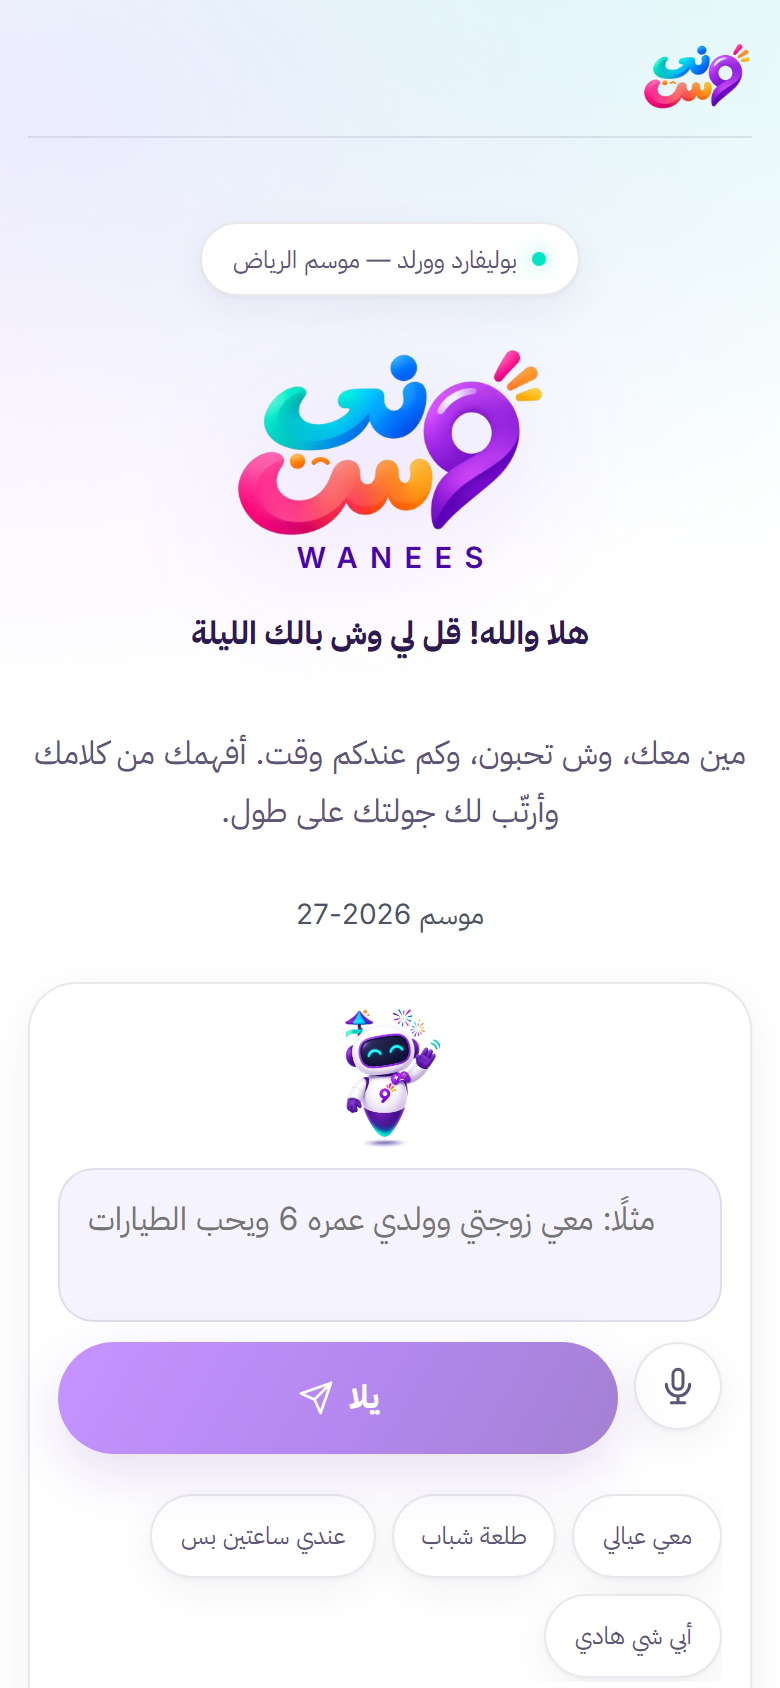
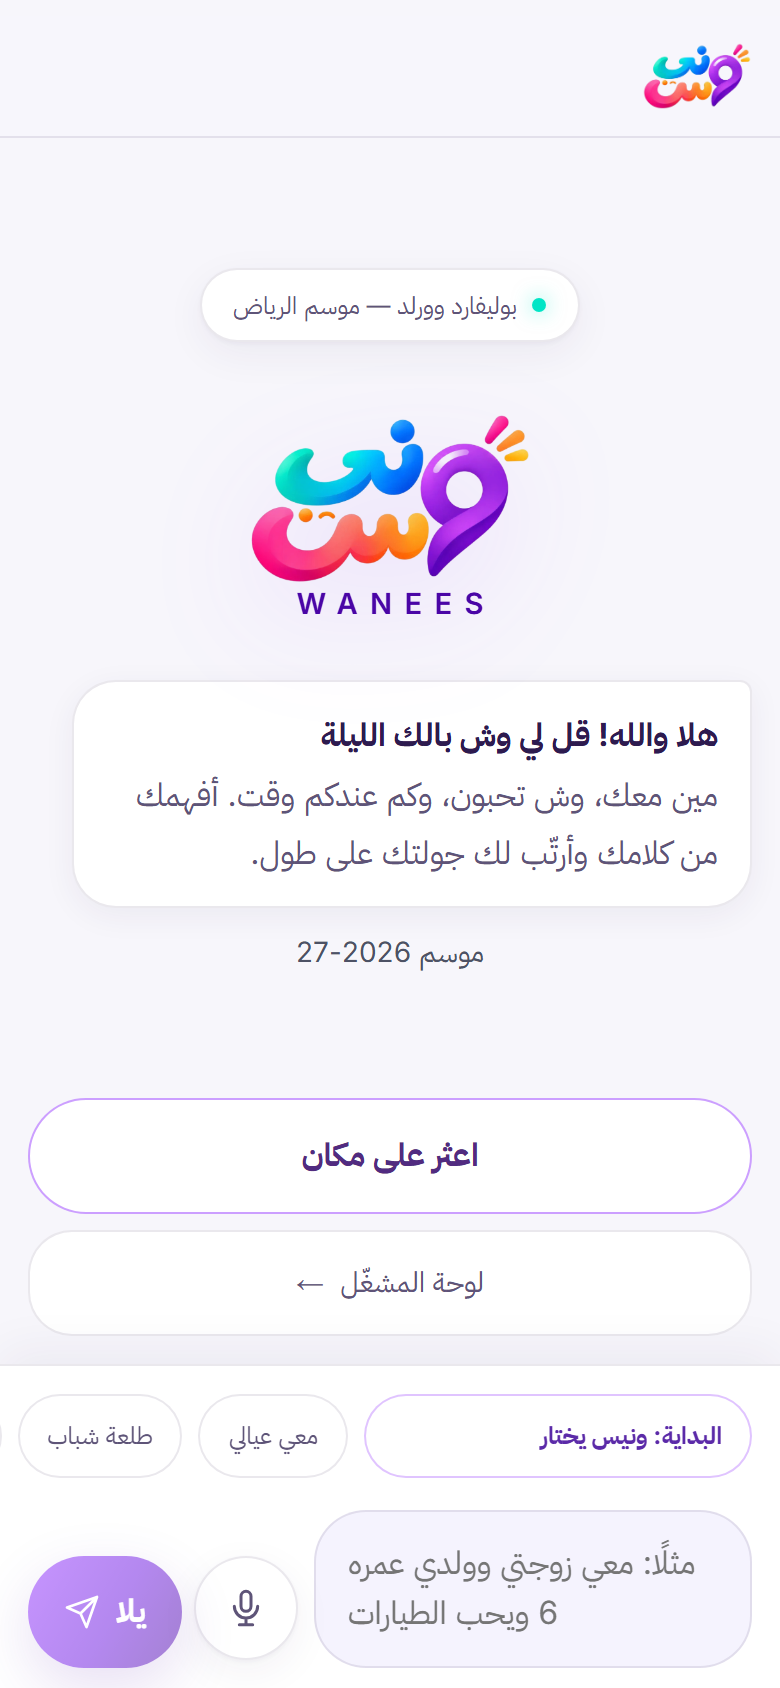
Visitor app shell: a chat first screen, a sticky app bar, native touch feel
- Phones held upright open on a chat: Wanees greets in a bubble and the
  message box is docked at the bottom, with the start point and the
  examples in one sideways-scrolling row above it. A phone on its side
  keeps the side-by-side welcome, message box first.
- Phones and tablets: the top bar stays on top (sticky, blurred) over a
  soft app background; controls get a press-down and no tap flash;
  switching tabs cross-fades with View Transitions while the top bar and
  tab bar stay still (off with reduced motion).
- Prices are a shade darker (#8c5714) to keep 4.5:1 on that background.
- The responsive test counts a control in a sideways-scrolling strip as
  reachable; the phone test checks the docked message box.
- README screenshots retaken, plus the stop ⋯ menu.

diff --git a/app/app/globals.css b/app/app/globals.css
@@ -42,7 +42,7 @@
   --orange: #ff8c00;
 
   /* -- أدوار محدودة -- */
-  --gold: #9c6118;                      /* الأسعار فقط */
+  --gold: #8c5714;                      /* الأسعار فقط */
   --ok: #137a4f;
   --warn: #c2410c;
 
@@ -696,10 +696,6 @@ button.ghost-link { background: none; border: none; padding: 0; font: inherit; c
 .visitor-plan .composer input { line-height: 1.4; }
 .hero-meta { display: inline-flex; align-items: center; justify-content: center; gap: 10px; color: var(--ink-3); font-size: 12px; margin: -8px 0 20px; }
 .hero-meta i { width: 3px; height: 3px; border-radius: 50%; background: var(--purple); opacity: 0.6; }
-.opening-start { width: min(100%, 520px); margin: 14px auto 0; text-align: start; }
-.opening-start label { display: flex; align-items: center; gap: 6px; color: var(--ink-3); font-size: 13px; margin-bottom: 7px; }
-.opening-start label span { opacity: 0.75; }
-.opening-start select { width: 100%; min-height: 46px; color: var(--ink); background: var(--surface); border: 1px solid var(--line); border-radius: 12px; padding: 10px 12px; font: inherit; }
 .qnext:disabled, .cta:disabled { opacity: 0.5; cursor: not-allowed; transform: none; }
 .quiz-error { max-width: 508px; margin: 14px auto 0; padding: 11px 14px; border: 1px solid rgba(194, 65, 12, 0.24); border-radius: 14px; color: #9a4a0b; background: rgba(194, 65, 12, 0.06); text-align: center; line-height: 1.6; }
 .route-zone-list { display: flex; flex-wrap: wrap; gap: 8px; margin-top: 14px; }
@@ -718,7 +714,7 @@ button.ghost-link { background: none; border: none; padding: 0; font: inherit; c
   --violet: #8e2bff;
   --grad: linear-gradient(120deg, #8e2bff 0%, #6a12e0 55%, #4a05a6 100%);
   --grad-soft: linear-gradient(120deg, rgba(142, 43, 255, 0.08), rgba(0, 229, 198, 0.08));
-  --gold: #9c6118;
+  --gold: #8c5714;
   background: #ffffff;
   color: var(--ink);
 }
@@ -1681,4 +1677,109 @@ html:has(dialog[open].bottom-sheet) { overflow: hidden; }
   .welcome-flow .logo-word img { height: 88px; width: auto; }
   .welcome-flow .tagline { margin-bottom: 6px; line-height: 1.75; }
   .welcome-flow:has(.opening-composer) .welcome-mascot { display: none; }
+}
+
+/* ============================================================
+   App shell: the visitor web app looks and behaves like an installed phone app.
+   ============================================================ */
+:root { --app-bg: #f7f6fb; }
+
+/* Native touch feel: no grey tap flash, no text selection on controls, a small press-down. */
+.visitor-flow, .visitor-plan { -webkit-tap-highlight-color: transparent; }
+.visitor-flow button, .visitor-plan button, .bottom-nav, .visitor-plan .topbar { -webkit-user-select: none; user-select: none; -webkit-touch-callout: none; }
+@media (hover: none) and (prefers-reduced-motion: no-preference) {
+  .visitor-flow button:not(:disabled):active, .visitor-plan button:not(:disabled):active { transform: scale(0.97); transition: transform 80ms ease-out; }
+}
+
+/* Screen-to-screen cross-fade (View Transitions, Chrome and Safari 18); the top bar and tab bar stay put. */
+.visitor-plan .topbar { view-transition-name: wanees-app-bar; }
+.bottom-nav { view-transition-name: wanees-tab-bar; }
+::view-transition-old(root), ::view-transition-new(root) { animation-duration: 180ms; animation-timing-function: cubic-bezier(0.2, 0.8, 0.2, 1); }
+::view-transition-old(root) { animation-name: wanees-screen-out; }
+::view-transition-new(root) { animation-name: wanees-screen-in; }
+::view-transition-group(wanees-app-bar), ::view-transition-group(wanees-tab-bar) { animation: none; }
+@keyframes wanees-screen-in { from { opacity: 0; transform: translateY(8px); } }
+@keyframes wanees-screen-out { to { opacity: 0; } }
+@media (prefers-reduced-motion: reduce) {
+  ::view-transition-group(*), ::view-transition-old(*), ::view-transition-new(*) { animation: none !important; }
+}
+
+/* The opening message box (every size): suggestions in one row, then the box with mic and send. */
+/* A one-row, sideways-scrolling suggestion strip must not widen the card it sits in. */
+.welcome-actions { grid-template-columns: minmax(0, 1fr); }
+.opening-composer, .opening-input, .opening-input textarea { min-width: 0; }
+.opening-suggestions { display: flex; flex-wrap: wrap; align-items: center; gap: 8px; }
+.opening-suggestions .opening-examples { margin: 0; }
+.start-chip {
+  appearance: none; -webkit-appearance: none; min-height: 42px; max-width: 220px; padding: 8px 14px;
+  border: 1px solid rgba(142, 43, 255, 0.28); border-radius: var(--r-pill); background: var(--surface);
+  color: #5b2aa8; font: inherit; font-size: var(--fs-12); font-weight: 700; cursor: pointer; text-overflow: ellipsis;
+}
+.opening-input { display: grid; grid-template-columns: minmax(0, 1fr) auto; align-items: end; gap: 8px; }
+.opening-input textarea { min-height: 52px; max-height: 140px; border-radius: 26px; padding: 13px 16px; }
+.opening-input .opening-actions { gap: 6px; }
+.opening-input .opening-mic { min-width: 52px; min-height: 52px; }
+.opening-input .opening-send { flex: none; width: auto; min-height: 52px; padding-inline: 18px; }
+
+/* Phones and tablets: an app bar that stays on top, cards on a soft app background. */
+@media not all and (min-width: 1024px) and (min-height: 600px) {
+  body:has(.visitor-plan) { background: var(--app-bg); }
+  .visitor-plan .topbar {
+    position: sticky; top: 0; z-index: 45; row-gap: 6px;
+    margin-inline: calc(var(--page-gutter) * -1);
+    padding: max(8px, env(safe-area-inset-top)) var(--page-gutter) 8px;
+    background: rgba(255, 255, 255, 0.86);
+    backdrop-filter: blur(18px) saturate(1.6); -webkit-backdrop-filter: blur(18px) saturate(1.6);
+    border-bottom: 1px solid var(--line);
+  }
+  .visitor-plan .topbar .pill, .visitor-plan .topbar .live-status { min-height: 34px; padding-block: 4px; }
+}
+
+/* Phones held upright: the first screen is a chat. Wanees greets in a bubble, the message box is docked at the bottom.
+   (A phone on its side keeps the side-by-side welcome above.) */
+@media (max-width: 759px) and (min-height: 471px) {
+  body:has(.welcome-flow) { background: var(--app-bg); }
+  .welcome-flow { min-height: 100svh; display: flex; flex-direction: column; padding-block-end: 0; }
+  .welcome-flow .app-topbar {
+    position: sticky; top: 0; z-index: 30;
+    margin-inline: calc(var(--page-gutter) * -1);
+    padding: max(8px, env(safe-area-inset-top)) var(--page-gutter) 8px;
+    background: rgba(247, 246, 251, 0.86);
+    backdrop-filter: blur(18px); -webkit-backdrop-filter: blur(18px);
+    border-bottom: 1px solid var(--line);
+  }
+  .welcome-flow .hero { flex: 1 0 auto; min-height: 0; justify-content: center; gap: 10px; padding: 16px 0 12px; }
+  .welcome-flow .tagline {
+    align-self: flex-start; max-width: 94%; margin: 4px 0 0; padding: 12px 16px;
+    border: 1px solid var(--line); border-radius: 22px; border-start-start-radius: 6px;
+    background: #ffffff; box-shadow: 0 4px 16px rgba(45, 27, 79, 0.06); text-align: start; line-height: 1.8;
+  }
+  .welcome-flow .tagline b { margin-bottom: 2px; }
+  .welcome-flow .tagline br { display: none; }
+  .welcome-flow .welcome-mascot { display: none; }
+  .welcome-flow .welcome-actions {
+    width: auto; margin: 0; padding: 0;
+    background: transparent; border: 0; border-radius: 0; box-shadow: none;
+  }
+  .welcome-flow .welcome-actions > .opening-composer {
+    order: 99; position: sticky; bottom: 0; z-index: 20;
+    margin: 6px calc(var(--page-gutter) * -1) 0;
+    padding: 10px var(--page-gutter) max(10px, env(safe-area-inset-bottom));
+    background: rgba(255, 255, 255, 0.94);
+    backdrop-filter: blur(18px); -webkit-backdrop-filter: blur(18px);
+    border-top: 1px solid var(--line); box-shadow: 0 -6px 24px rgba(45, 27, 79, 0.06);
+  }
+  .opening-suggestions {
+    flex-wrap: nowrap; overflow-x: auto; scrollbar-width: none;
+    margin-inline: calc(var(--page-gutter) * -1); padding: 2px var(--page-gutter) 4px;
+  }
+  .opening-suggestions::-webkit-scrollbar { display: none; }
+  .opening-suggestions .opening-examples { flex-wrap: nowrap; overflow: visible; }
+  .opening-suggestions .chip, .opening-suggestions .start-chip { flex: none; white-space: nowrap; box-shadow: none; }
+}
+
+/* Short screens (a phone on its side): the message box first, then the suggestions; no mascot. */
+@media (max-height: 470px) {
+  .opening-composer .opening-input { order: -1; }
+  .welcome-flow .welcome-mascot { display: none; }
 }

diff --git a/app/app/demo/page.tsx b/app/app/demo/page.tsx
@@ -1,5 +1,6 @@
 "use client";
 import { useCallback, useEffect, useMemo, useRef, useState } from "react";
+import { flushSync } from "react-dom";
 import { usePathname } from "next/navigation";
 import dynamic from "next/dynamic";
 import { PITCH_EVENT_SLUG } from "../../../packages/contracts/src/index.ts";
@@ -322,7 +323,14 @@ function VisitorGuide({ eventSlug: suppliedEventSlug, allowLegacyFallback: suppl
   const lastPositionRef = useRef<NearbyPosition | null>(null);
   // Each tab has its own URL on /e/*: switching pushes a history entry, so Back returns to the last tab.
   const selectTab = useCallback((tab: VisitorTabId) => {
-    setActiveTab(tab);
+    // Audit 2.5: a short cross-fade between screens like a native tab bar, where the browser supports
+    // View Transitions and the visitor has not asked for reduced motion. The bars stay put (CSS).
+    const doc = typeof document === "undefined" ? null : document as Document & { startViewTransition?: (update: () => void) => unknown };
+    if (doc?.startViewTransition && !window.matchMedia("(prefers-reduced-motion: reduce)").matches) {
+      doc.startViewTransition(() => flushSync(() => setActiveTab(tab)));
+    } else {
+      setActiveTab(tab);
+    }
     if (typeof window === "undefined") return;
     window.scrollTo({ top: 0 });
     // A light tap on phones that support it, like a native tab bar.
@@ -1703,27 +1711,11 @@ function VisitorGuide({ eventSlug: suppliedEventSlug, allowLegacyFallback: suppl
           )}
           {eventLoadState !== "error" && !(registrationRequired && !guest?.exists) && (
             <form className="opening-composer" aria-label="ابدأ الكلام مع ونيس" onSubmit={(event) => { event.preventDefault(); void startFromConversation(openingText); }}>
-              <label className="sr-only" htmlFor="opening-message">قل لي وش بالك</label>
-              <textarea id="opening-message" dir="auto" rows={2} maxLength={500} value={openingText} placeholder="مثلًا: معي زوجتي وولدي عمره 6 ويحب الطيارات"
-                disabled={eventLoadState !== "ready" || visitorCheck !== "done" || isBuildingPlan}
-                onChange={(event) => setOpeningText(event.target.value)}
-                onKeyDown={(event) => { if (event.key === "Enter" && !event.shiftKey) { event.preventDefault(); void startFromConversation(openingText); } }} />
-              <div className="opening-actions">
-                <button type="button" className="btn-icon opening-mic" aria-label={openingListening ? "أسمعك…" : "تكلّم بدل الكتابة"} aria-pressed={openingListening} disabled={eventLoadState !== "ready" || isBuildingPlan} onClick={listenForOpening}><Icon name="mic" size={20}/></button>
-                <button ref={startButtonRef} type="submit" className="cta" disabled={eventLoadState !== "ready" || visitorCheck !== "done" || isBuildingPlan || !openingText.trim()}>
-                  {eventLoadState === "loading" ? "جارٍ تحميل الفعالية…" : visitorCheck !== "done" ? "لحظة…" : isBuildingPlan ? "أجهز جولتك…" : "يلا"} <Icon name="send" size={18}/>
-                </button>
-              </div>
-              <div className="chips opening-examples" role="group" aria-label="أمثلة تكتبها لك">
-                {["معي عيالي","طلعة شباب","عندي ساعتين بس","أبي شي هادي"].map((example) => (
-                  <button key={example} type="button" className="chip" disabled={isBuildingPlan} onClick={() => setOpeningText((current) => current.trim() ? `${current.trim()}، ${example}` : example)}>{example}</button>
-                ))}
-              </div>
-              {(startGates.length > 0 || startZones.length > 0) && (
-                <div className="opening-start">
-                  <label htmlFor="start-point"><Icon name="map" size={16}/> من وين تبدأ؟ <span>(اختياري)</span></label>
-                  <select id="start-point" value={selectedStartPoint} disabled={isBuildingPlan} onChange={(event) => setSelectedStartPoint(event.target.value)}>
-                    <option value="">ونيس يختار</option>
+              <div className="opening-suggestions">
+                {(startGates.length > 0 || startZones.length > 0) && <>
+                  <label className="sr-only" htmlFor="start-point">من وين تبدأ؟ (اختياري)</label>
+                  <select id="start-point" className="chip start-chip" value={selectedStartPoint} disabled={isBuildingPlan} onChange={(event) => setSelectedStartPoint(event.target.value)}>
+                    <option value="">البداية: ونيس يختار</option>
                     {startGates.length > 0 && (
                       <optgroup label="أدخل من البوابة">
                         {startGates.map((gate) => <option key={gate.id} value={gate.zone}>{gate.label}</option>)}
@@ -1733,8 +1725,26 @@ function VisitorGuide({ eventSlug: suppliedEventSlug, allowLegacyFallback: suppl
                       {startZones.map((zone) => <option key={zone.id} value={zone.id}>{zone.name}</option>)}
                     </optgroup>
                   </select>
+                </>}
+                <div className="chips opening-examples" role="group" aria-label="أمثلة تكتبها لك">
+                  {["معي عيالي","طلعة شباب","عندي ساعتين بس","أبي شي هادي"].map((example) => (
+                    <button key={example} type="button" className="chip" disabled={isBuildingPlan} onClick={() => setOpeningText((current) => current.trim() ? `${current.trim()}، ${example}` : example)}>{example}</button>
+                  ))}
                 </div>
-              )}
+              </div>
+              <div className="opening-input">
+                <label className="sr-only" htmlFor="opening-message">قل لي وش بالك</label>
+                <textarea id="opening-message" dir="auto" rows={2} maxLength={500} value={openingText} placeholder="مثلًا: معي زوجتي وولدي عمره 6 ويحب الطيارات"
+                  disabled={eventLoadState !== "ready" || visitorCheck !== "done" || isBuildingPlan}
+                  onChange={(event) => setOpeningText(event.target.value)}
+                  onKeyDown={(event) => { if (event.key === "Enter" && !event.shiftKey) { event.preventDefault(); void startFromConversation(openingText); } }} />
+                <div className="opening-actions">
+                  <button type="button" className="btn-icon opening-mic" aria-label={openingListening ? "أسمعك…" : "تكلّم بدل الكتابة"} aria-pressed={openingListening} disabled={eventLoadState !== "ready" || isBuildingPlan} onClick={listenForOpening}><Icon name="mic" size={20}/></button>
+                  <button ref={startButtonRef} type="submit" className="cta opening-send" disabled={eventLoadState !== "ready" || visitorCheck !== "done" || isBuildingPlan || !openingText.trim()}>
+                    {eventLoadState === "loading" ? "جارٍ تحميل الفعالية…" : visitorCheck !== "done" ? "لحظة…" : isBuildingPlan ? "أجهز جولتك…" : "يلا"} <Icon name="send" size={18}/>
+                  </button>
+                </div>
+              </div>
               {openingError && <p className="guide" role="alert">{openingError}</p>}
             </form>
           )}

diff --git a/CHANGELOG.md b/CHANGELOG.md
@@ -22,6 +22,13 @@ All notable changes to WANEES. Dates are in Asia/Riyadh time.
   guide on the last good position with one notice; only a revoked location permission ends it.
 - Browser test `tests/ui/mobile-app.spec.mjs`: no questionnaire, the send button above the fold at 360 × 740, the
   stop menu and Back, and no sideways scrolling on any tab.
+- App shell. On phones the first screen is a chat: Wanees greets in a bubble and the message box is docked at
+  the bottom like a messaging app, with the start point and the examples in one sideways-scrolling row above it.
+  On phones and tablets the top bar stays put (sticky, blurred) over a soft app background, controls get a small
+  press-down and no tap flash, and switching tabs cross-fades with View Transitions (Chrome, Safari 18) while the
+  top bar and the tab bar stay still; reduced motion turns it off.
+  Prices (`--gold`) are a shade darker in the visitor app (`#8c5714`) so they keep 4.5:1 on the new background.
+  The responsive test treats a control inside a sideways-scrolling strip as reachable, not clipped.
 - The visitor app turns off the Next.js development badge (`devIndicators: false`): on a phone it covered the
   bottom navigation's «أنا» tab. Build and runtime errors still open the development overlay.
 

diff --git a/README.md b/README.md
@@ -37,6 +37,7 @@
   <img src="docs/screenshots/01-home.png" width="160" alt="الصفحة الرئيسية">
   <img src="docs/screenshots/02-talk.png" width="160" alt="قل لي وش بالك: محادثة بدل الاستبيان">
   <img src="docs/screenshots/03-plan-next-step.png" width="160" alt="مسارك مع شريط التنقل السفلي">
+  <img src="docs/screenshots/08-stop-menu.png" width="160" alt="قائمة المحطة المنبثقة: اتجاهات، خريطة، ليش، بدّل، شيل، شارك">
   <img src="docs/screenshots/04-change-proposal.png" width="160" alt="اقتراح تعديل المسار">
   <img src="docs/screenshots/05-assistant.png" width="160" alt="مساعد ونيس">
 </p>
